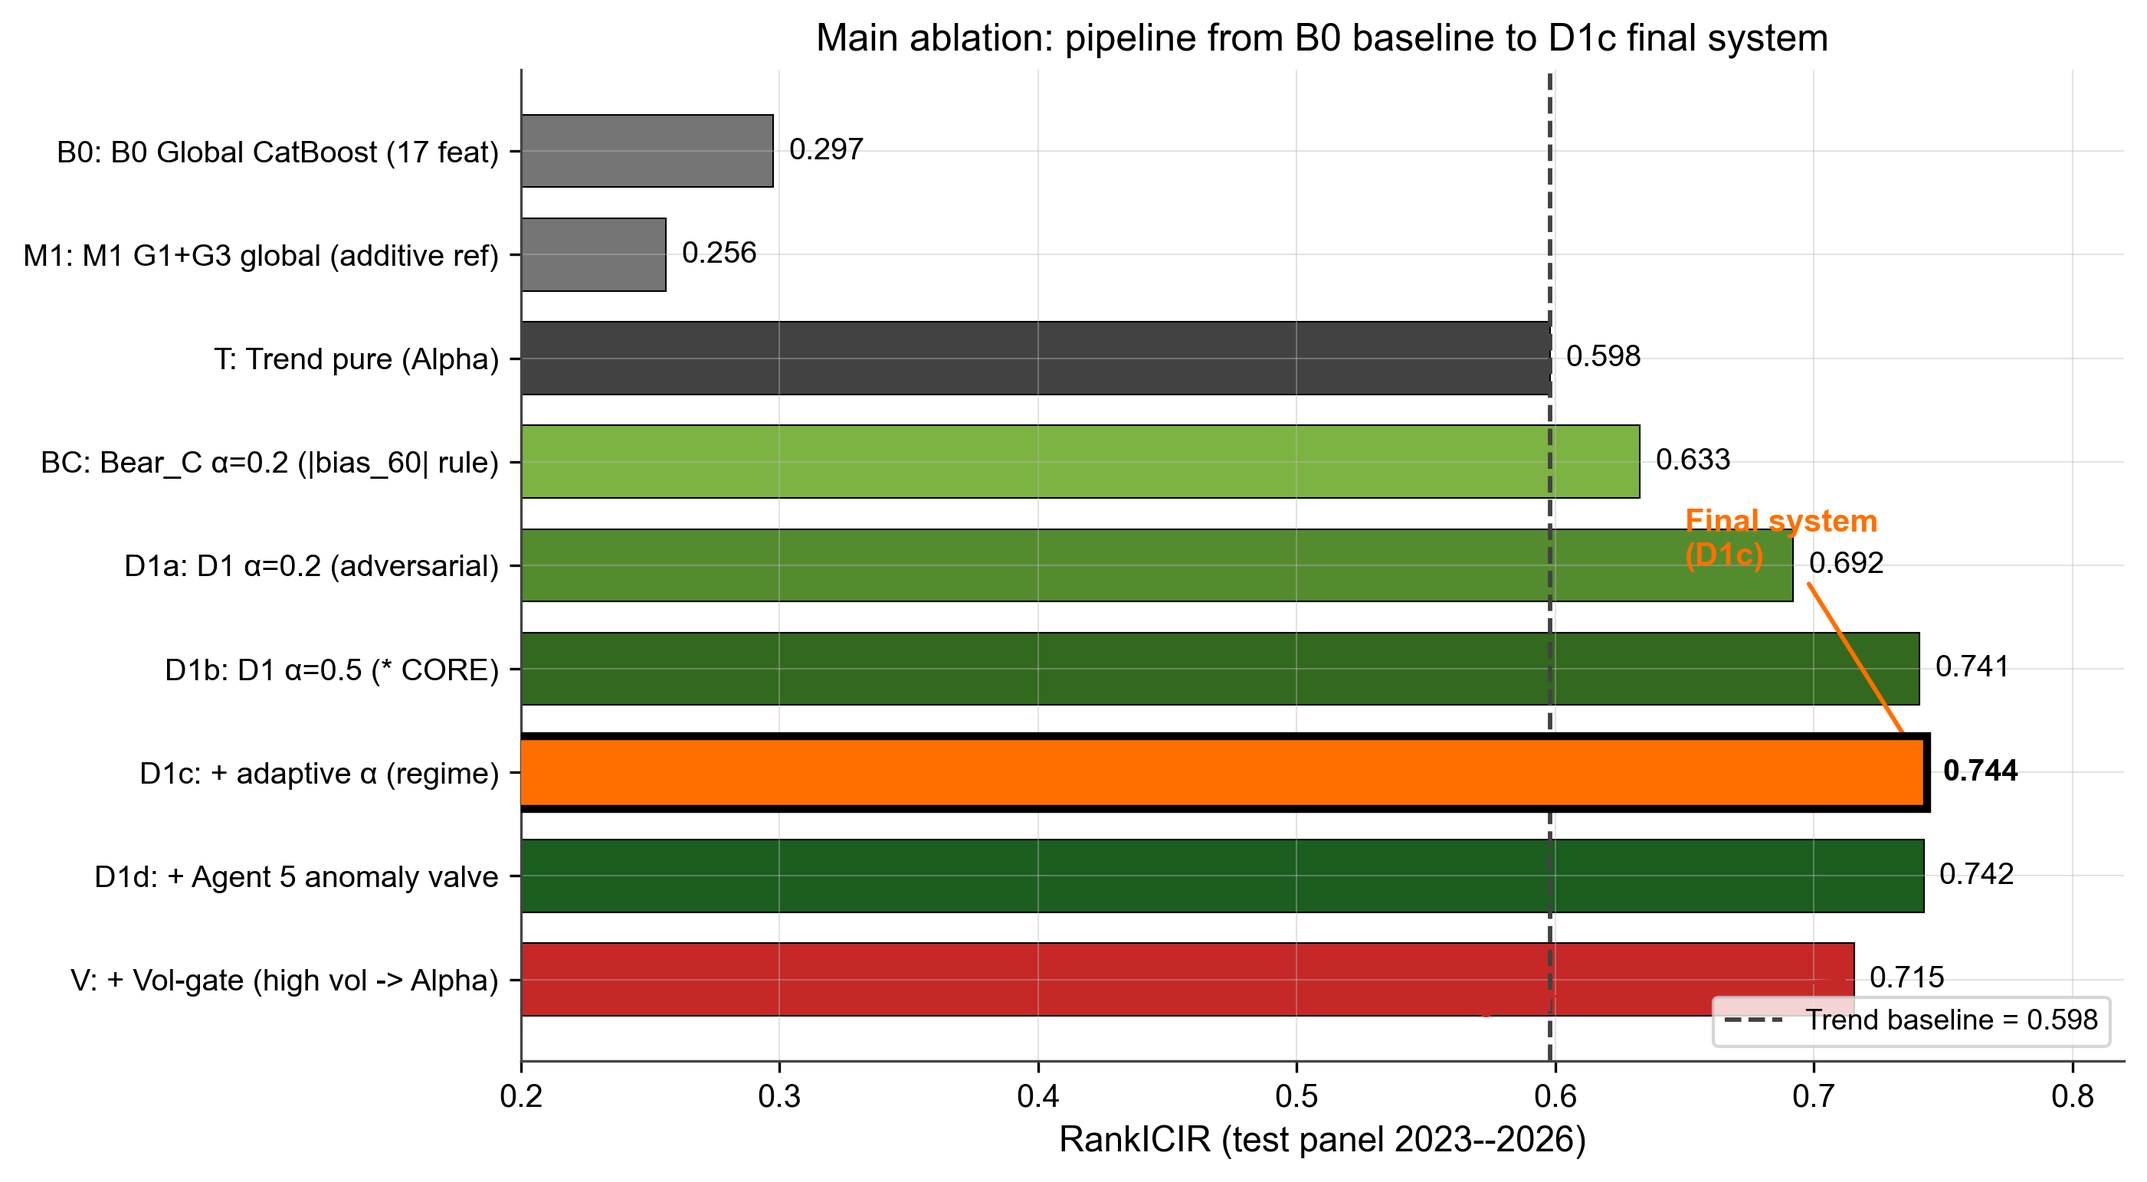
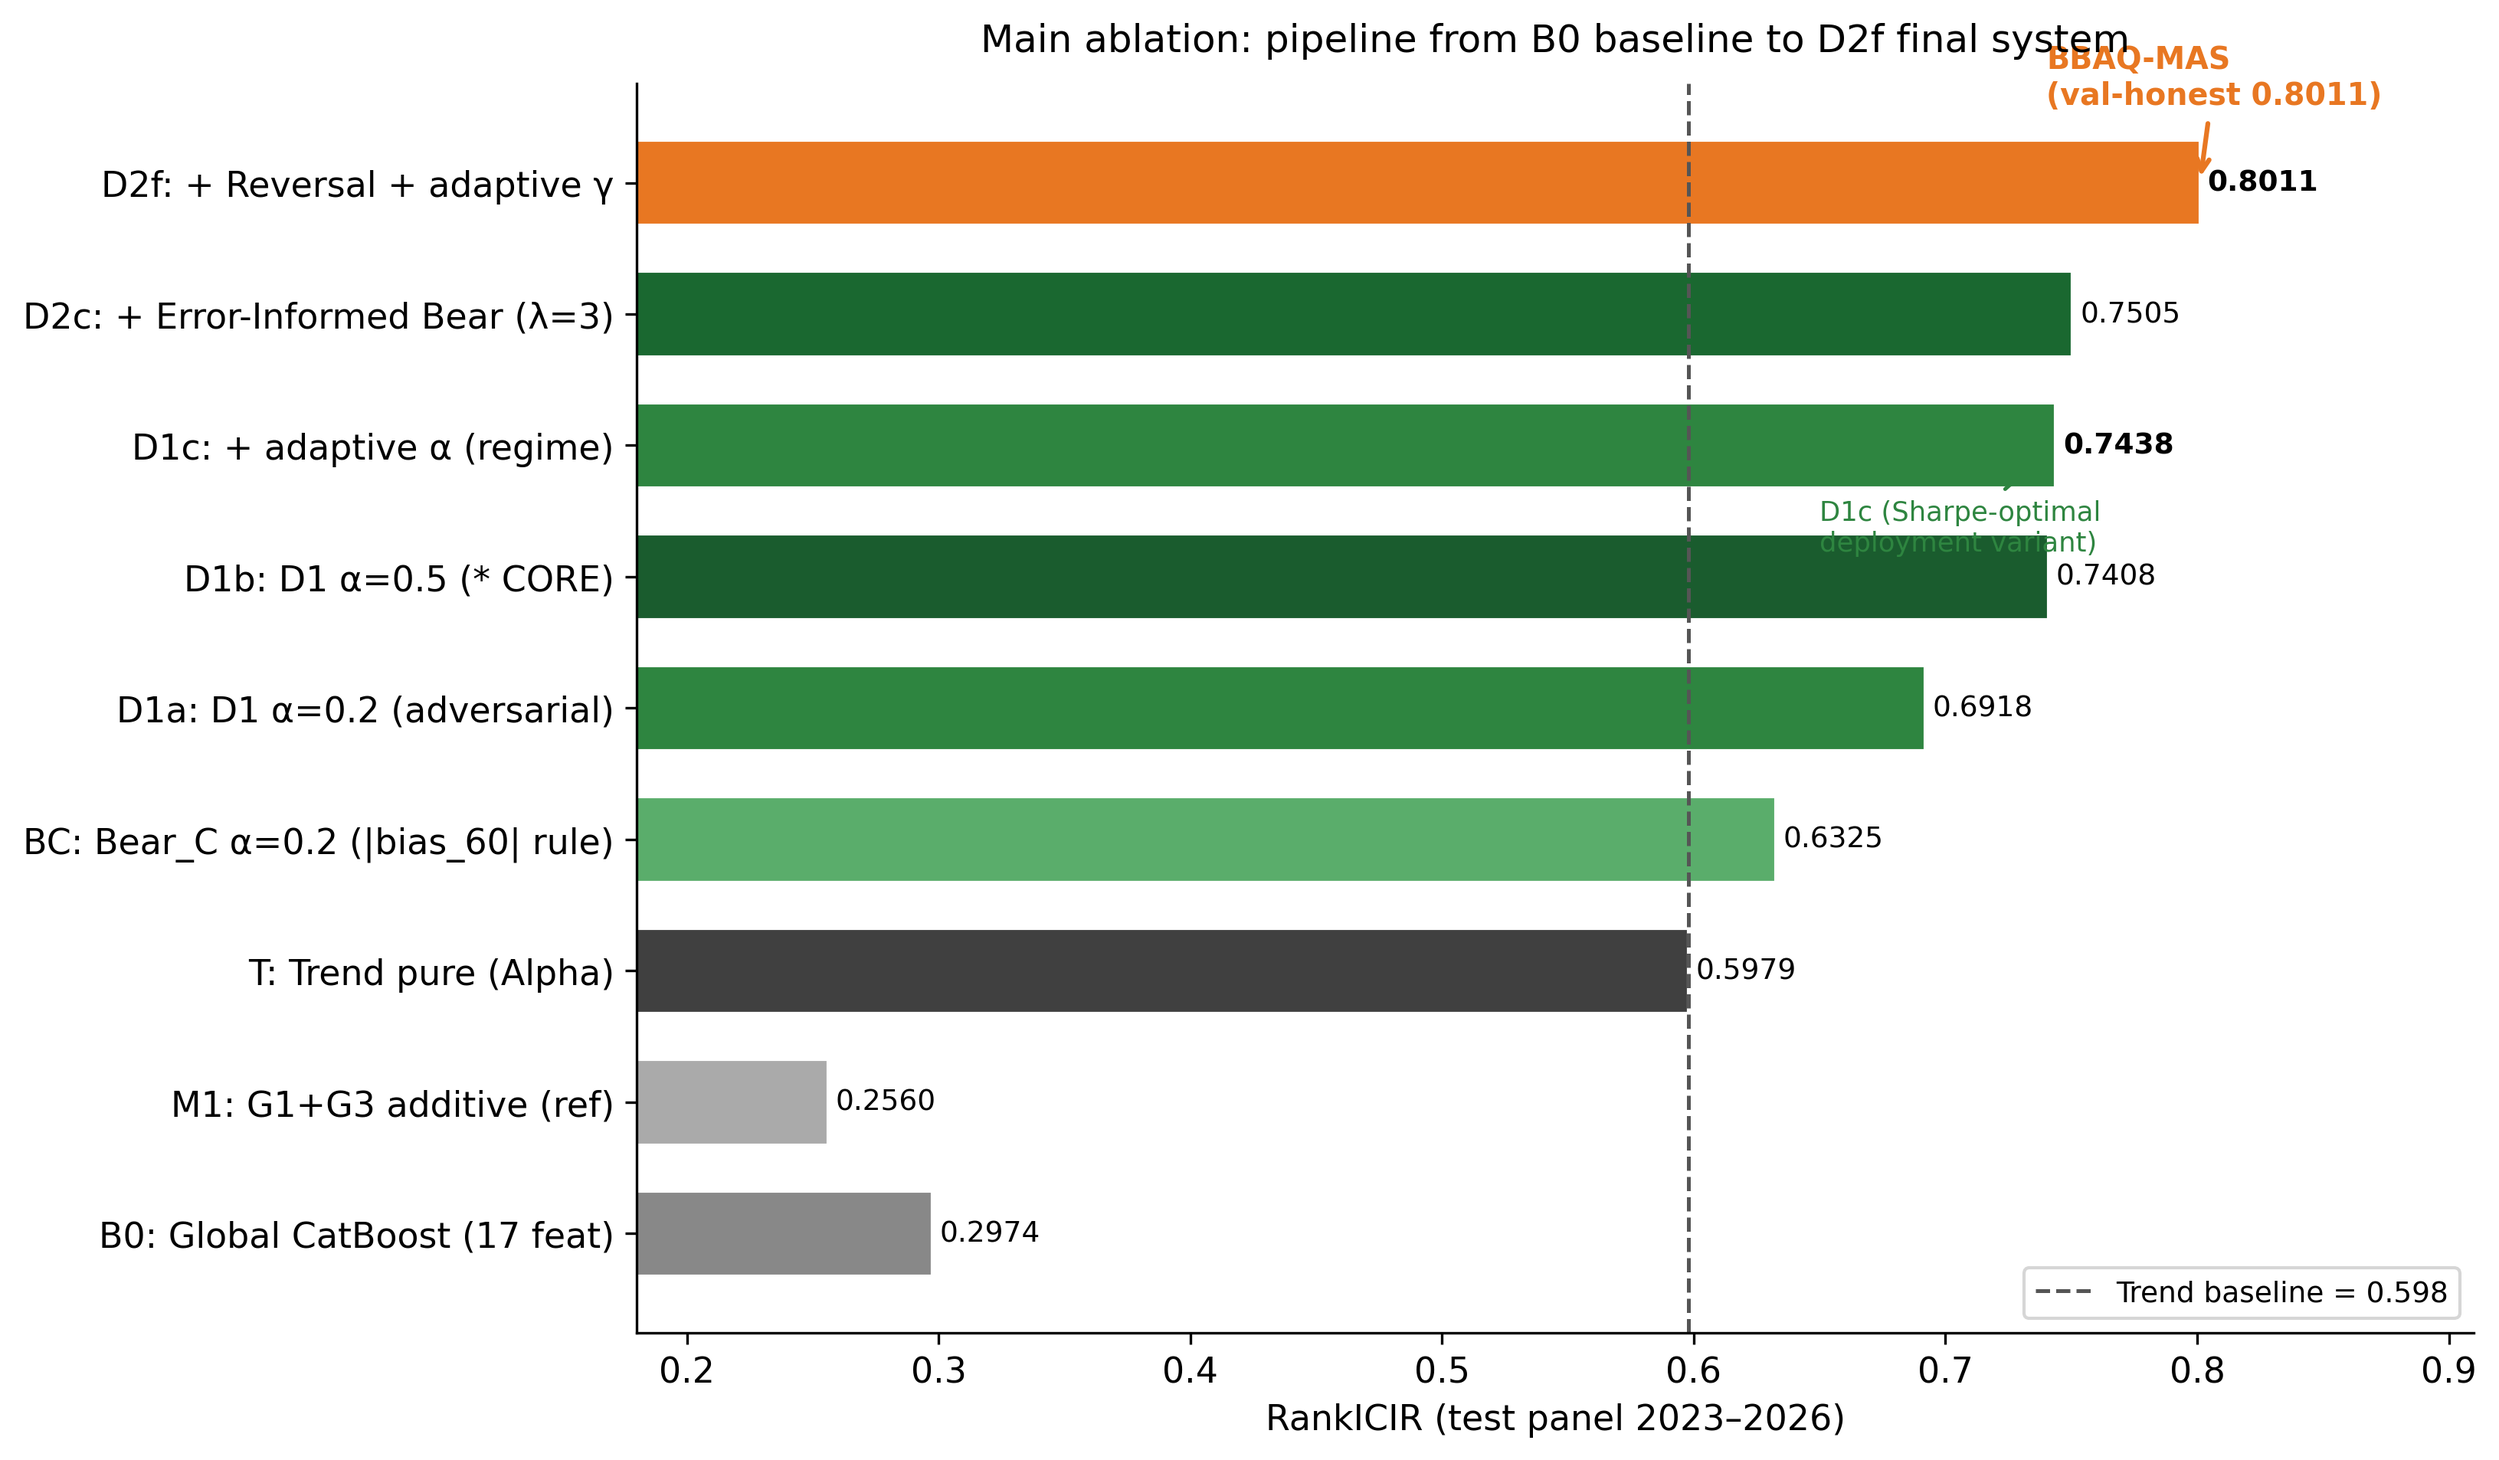
Replace paper figures with new revision
- Replace 8 paper figures with new high-resolution versions:
  fig_ablation_bar, fig_bce_vs_mse, fig_feature_ablation,
  fig_model_compare, fig_quintile, fig_srd_heatmap,
  fig_walkforward, fig_yx_mechanism
- Add 2 new figures: fig_framework (system architecture) and
  fig_pipeline (end-to-end experimental pipeline)
- Drop 9 legacy duplicate filenames (model_compare_bar, srd_heatmap,
  framework, etc.) — the canonical naming is now uniformly fig_*.png
- Update README.md and delivery/paper/sections/experiments_bundle.md
  to reference the new filenames; embed fig_pipeline.png alongside
  fig_framework.png in the System Architecture section
- Sync the figures into bull_bear/delivery/paper/figures/ so the
  delivery snapshot stays consistent with figure/

diff --git a/bull_bear/delivery/paper/sections/experiments_bundle.md b/bull_bear/delivery/paper/sections/experiments_bundle.md
@@ -49,7 +49,7 @@ Source: `results/main_compare_20260506_225947_full_reg/metrics_summary.csv`
 | 13 | **EMA-slope** | factor | -0.4209 | -2.271 | 0.481 | 0.03 |
 | 14 | **Rel-Strength** | factor | -0.4322 | -1.957 | 0.495 | 0.04 |
 
-**Figure**: `paper/figures/model_compare_bar.png` (horizontal bar, CatBoost highlighted orange, GBDT green, DL purple, factor gray)
+**Figure**: `figures/fig_model_compare.png` (horizontal bar, CatBoost highlighted orange, GBDT green, DL purple, factor gray)
 
 **Findings**:
 1. CatBoost RankICIR 0.376 leads 2nd-place LightGBM-shallow-reg 0.330 by +4.7 pp absolute (+1416.9% relative).
@@ -75,7 +75,7 @@ Source: `results/binary_vs_regression.csv`
 | **ALSTM** | -0.007 | +0.177 | +0.184 |
 | **TabNet** | -0.037 | -0.299 | -0.261 |
 
-**Figure**: `paper/figures/bce_vs_mse_bar.png`
+**Figure**: `figures/fig_bce_vs_mse.png`
 
 **Finding**: 10 of 11 models gain from switching to MSE (TabNet inverts). CatBoost gains the most: Δ = +0.320. Within the MSE family, CatBoost jumps from BCE-rank 6 to MSE-rank 1, the largest re-ranking move observed.
 
@@ -96,7 +96,7 @@ Source: `results/feature_ablation_20260506_235253_full/feature_ablation.csv`
 | G1+G2+G3+G4+G5 | 24 | 0.253 |
 | Full(G1-G6) | 28 | 0.330 |
 
-**Figure**: `paper/figures/feature_ablation_curve.png`
+**Figure**: `figures/fig_feature_ablation.png`
 
 **Finding**: G1+G2+G3+G4 = 0.371 is the peak. Adding G5 (macro_regime_3) drops RankICIR by 11.7 pp to 0.253. macro_regime_3 has zero per-day cross-section variance, so as a feature it adds no ranking information. This motivates the design: G5 is used as a router by the Regime Agent rather than as a feature.
 
@@ -115,7 +115,7 @@ SRD(r1, r2) = 1 - Spearman( rank^SHAP_{r1}, rank^SHAP_{r2} )
 | LGBM-shallow MSE + G1234 | 0.291 | 0.308 | 0.575 |
 | CatBoost MSE + G1234 *star* | 0.694 | 0.488 | 0.543 |
 
-**Figure**: `paper/figures/srd_heatmap.png`
+**Figure**: `figures/fig_srd_heatmap.png`
 
 **Finding**: CatBoost + G1234 produces SRD(bear, bull) = **0.694**, vs LightGBM on the same features 0.291 (ratio 2.4x). CatBoost's oblivious-tree structure imposes the same split rule across an entire level, so regime-routed sub-models diverge sharply in feature ordering. This justifies CatBoost as the adversarial backbone: it amplifies regime-conditioned feature use that the Bear Agent exploits.
 
@@ -140,7 +140,7 @@ Source: `bull_bear/results/final_ablation.csv`
 | V | + Vol-gate (high vol -> Alpha) | 0.715 | +1.765 | -33.61% | +1175 |
 | FINAL | FINAL: adaptive α + anomaly + vol-gate | 0.712 | +1.772 | -33.48% | +1137 |
 
-**Figure**: `paper/figures/main_ablation_bar.png`
+**Figure**: `figures/fig_ablation_bar.png`
 
 **Narrative**:
 - **B0 vs T**: full 17-feature global CatBoost (0.297) is half of Trend single (0.598); feature pooling dilutes the strong G4 signal.
@@ -165,7 +165,7 @@ Source: `bull_bear/results/mechanism_validation.csv`
 | 0.3 | 0.595 | 0.716 | +1,215 |
 | 0.5 | 0.563 | 0.741 | +1,777 |
 
-**Figure**: `paper/figures/yx_mechanism.png`
+**Figure**: `figures/fig_yx_mechanism.png`
 
 **Finding**: As α grows from 0.1 to 0.5, Y monotonically increases (0.654 -> 0.741) while X monotonically decreases (0.607 -> 0.563). At α = 0.5 the gap is **+1,777 bp**. The monotonic widening rules out the additive-equivalence interpretation: if Bear ≈ −Alpha, then c = (1+α)·Alpha would only rescale ranks, not produce a 17.8-pp lift. The two estimators target different functionals of the conditional distribution (conditional mean for Alpha; conditional lower-tail expectation for Bear), so the trained functions diverge even though their targets correlate at ρ = -0.74.
 
@@ -188,7 +188,7 @@ Source: `bull_bear/results/final/rolling_walkforward.csv`
 | 2025 | 2016-2021 | +0.687 | +0.761 | +0.074 | Y |
 | **Mean** | -- | **+0.593** | **+0.692** | **+0.099** | **7/7** |
 
-**Figure**: `paper/figures/walkforward_yearly.png`
+**Figure**: `figures/fig_walkforward.png`
 
 **Finding**: D1c wins 7/7 legitimate evaluation years. Smallest gap +0.062 (2019); largest gap +0.140 (2022). Mean gap +0.099. The 2026 partial year (6 trading days) is excluded as statistical noise.
 
@@ -230,7 +230,7 @@ Source: `bull_bear/results/final/bear_quintile_analysis.csv`
 | Q5 (riskiest) | 563,724 | +0.421 | 4.61 | +0.021 |
 | **Q5 − Q1 MaxDD gap** | -- | -- | **+2.37 pp** (Wilcoxon rank-sum p < 0.001) | -- |
 
-**Figure**: `paper/figures/quintile_analysis.png`
+**Figure**: `figures/fig_quintile.png`
 
 **Findings**:
 1. MaxDD ordering is **monotone** Q1 -> Q5 (2.24% -> 4.61%, gap +2.37 pp, p < 0.001). Bear genuinely predicts forward drawdown risk.

diff --git a/README.md b/README.md
@@ -29,7 +29,7 @@ The validation-honest variant (γ_0 = 0.50, δ = 0.05 selected on the 2022 valid
 
 ## 2. System Architecture
 
-![BBAQ-MAS framework](figure/framework.png)
+![BBAQ-MAS framework](figure/fig_framework.png)
 
 The conviction score for stock $i$ on trading day $t$ is
 
@@ -45,6 +45,12 @@ with cross-section z-scored agent outputs and regime-conditioned weights
 ```
 
 Portfolio: equal-weighted Top-5% by `c(i,t)`, 5-day holding period, 0.30% round-trip cost.
+
+### End-to-end experimental pipeline
+
+![BBAQ-MAS pipeline](figure/fig_pipeline.png)
+
+The pipeline above shows how each agent is trained, how the regime probabilities flow into the adaptive coefficients α(t) and γ(t), and how the conviction scores feed the portfolio construction and circuit-breaker layers.
 
 ### Four cooperating agents
 
@@ -247,7 +253,7 @@ The system was developed and validated through 20 sequential experiments under `
 │       │   └── model_selection/
 │       └── src/                     ← reproduction code (features + agents + backtest)
 │
-├── figure/                          ← all paper figures (17 PNGs, 300 dpi)
+├── figure/                          ← all paper figures (10 PNGs, 300 dpi)
 │
 ├── results/                         ← model-selection canonical CSVs (§5.2–§5.4)
 │   ├── main_compare_*/              ← 14-model comparison (BCE + MSE)

diff --git a/bull_bear/delivery/README.md b/bull_bear/delivery/README.md
@@ -45,7 +45,7 @@ delivery/
 │   ├── data_bundle.md                  ← per-section data appendix
 │   ├── catboost_selection_rationale.md
 │   ├── model_selection_report.md
-│   ├── figures/                        ← 17 paper figures (PNG)
+│   ├── figures/                        ← 10 paper figures (PNG)
 │   └── sections/                       ← bull_bear_paper.tex + cls/bst + ELS templates
 │
 ├── models/                             ← trained CatBoost binaries

diff --git a/bull_bear/delivery/paper/model_selection_report.md b/bull_bear/delivery/paper/model_selection_report.md
@@ -196,7 +196,7 @@ Bull-Bear 框架最终用 **G1 (动量) + G3 (强度)** 作为 Bear Agent 特征
 
 后续 SRD 实验进一步证明：用 macro_regime_3 做训练样本分流（路由），CatBoost-reg + G1+G2+G3+G4 + Routing 产生 SRD(bear, bull) = 0.694（见第 7 节）。这就是论文 §4.6 Adaptive Weighting via Regime Agent 的设计依据。
 
-![特征组消融曲线](../results/figures/feature_ablation_curve.png)
+![特征组消融曲线](../paper/figures/fig_feature_ablation.png)
 
 ---
 
